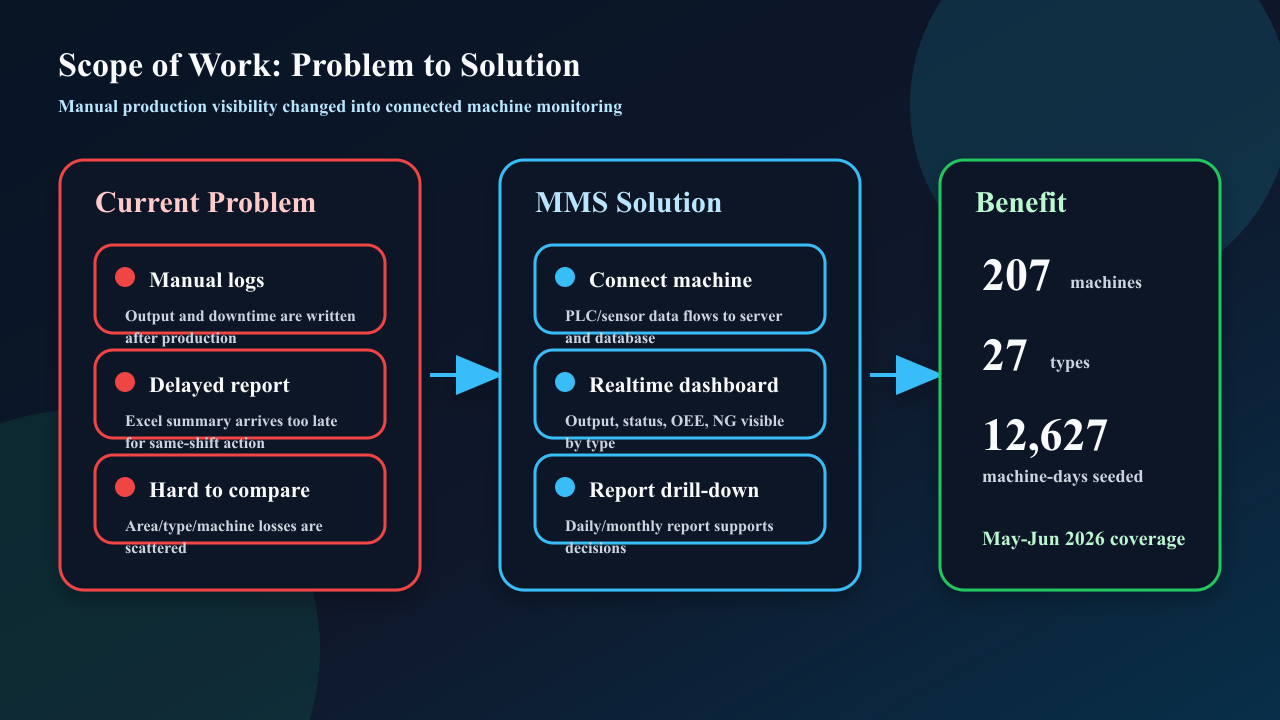
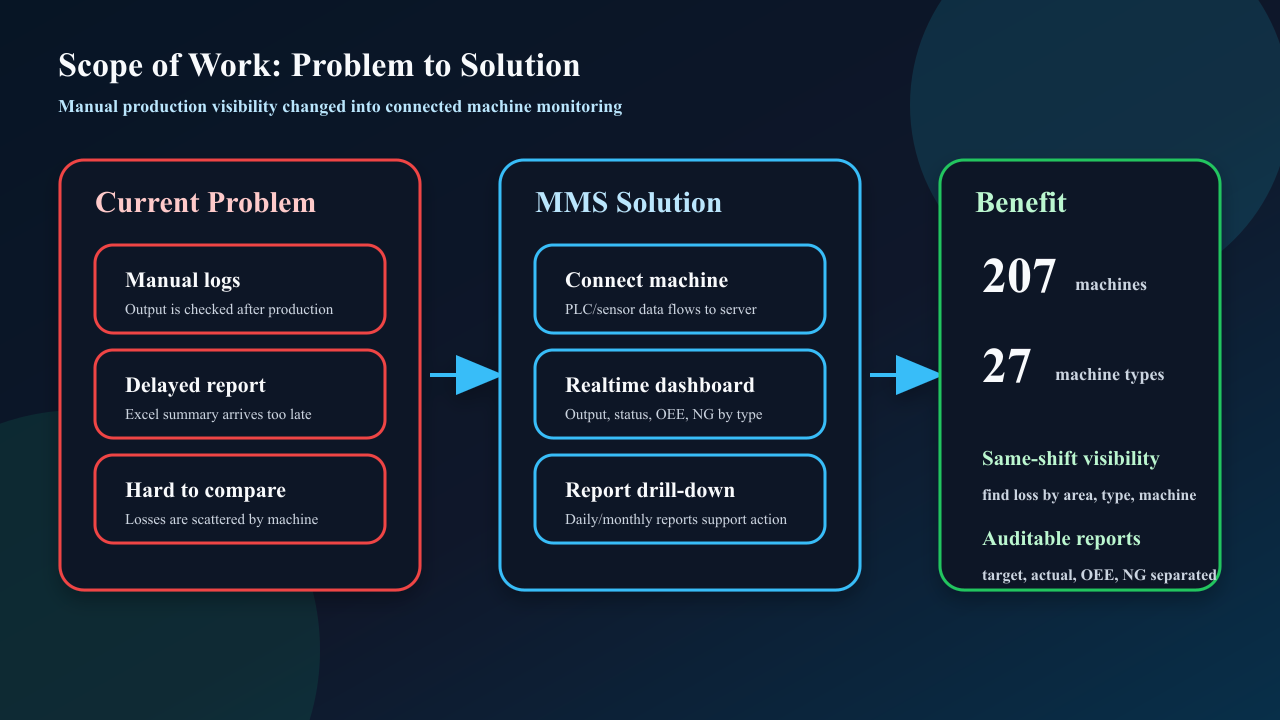
feat: use real mms web screenshots

diff --git a/lib/data.ts b/lib/data.ts
@@ -758,8 +758,8 @@ export const projects: Project[] = [
           metrics: [
             { label: "Active machines", value: "207" },
             { label: "Machine types", value: "27" },
-            { label: "Demo coverage", value: "61", unit: "days" },
-            { label: "Machine-days seeded", value: "12,627" },
+            { label: "Main report pages", value: "6" },
+            { label: "Deployment mode", value: "PM2" },
           ],
           userFlow: [
             { id: "open", label: "Open Dashboard", detail: "Supervisor opens realtime MMS dashboard", type: "action" },
@@ -772,13 +772,13 @@ export const projects: Project[] = [
             { url: "/projects/mms-dashboard/scope-problem-solution.png", title: "Current Problem, Solution, and Benefit", caption: "Shows the current manual-reporting problem, the MMS machine-data solution, and measurable coverage numbers used for portfolio validation." },
             { url: "/projects/mms-dashboard/web-user-flow.png", title: "User Flow of MMS Web", caption: "Explains how a supervisor uses the web app: open dashboard, filter machines, compare KPIs, drill into reports, and take action." },
             { url: "/projects/mms-dashboard/network-flow.png", title: "Machine Network to Database", caption: "Machine-side data flows from PLC/sensor and edge gateway into MQTT/Influx, then to Express API and SQL Server for realtime dashboards." },
-            { url: "/projects/mms-dashboard/Daily.png", title: "Daily Report Page", caption: "A real program screen for daily review of target, actual output, OEE, downtime, and alarm information." },
-            { url: "/projects/mms-dashboard/Monthly.png", title: "Monthly Report Page", caption: "A real program screen for comparing production and OEE trend over a longer period." },
+            { url: "/projects/mms-dashboard/web-layout-dashboard.png", title: "Realtime Layout Dashboard", caption: "Actual web screenshot captured from the running MMS system. This page shows factory areas and machine status color groups so users can see where losses happen." },
+            { url: "/projects/mms-dashboard/web-daily-report.png", title: "Daily Report Page", caption: "Actual web screenshot captured from the running MMS system. This page helps supervisors compare downtime, alarms, target, actual output, and cycle time in one day." },
           ],
           benefits: [
             "Supervisors can see production loss by area, type, machine, and date instead of waiting for manual spreadsheet consolidation.",
             "Machine data is separated into target, actual, runtime, OEE, NG, status, and alarm tables so report numbers are easier to audit.",
-            "Seeded demo data covers every active machine and type from May 2026 through June 2026 for realistic portfolio testing.",
+            "The web flow reduces manual follow-up because users can move from realtime status to report drill-down in the same interface.",
           ],
         },
         jobProcess: {
@@ -806,8 +806,15 @@ export const projects: Project[] = [
             { url: "/projects/mms-dashboard/issue-solution.png", title: "Problems and Fix Approach", caption: "Summarizes key engineering problems around data mismatch and report performance, plus the solution used." },
           ],
           screenshots: [
-            { url: "/projects/mms-dashboard/Daily.png", title: "Daily Dashboard", caption: "Used by supervisors to compare daily target, output, OEE, downtime, and abnormal machine behavior." },
-            { url: "/projects/mms-dashboard/Monthly.png", title: "Monthly Dashboard", caption: "Used by management to compare production trend and check before/after improvement results." },
+            { url: "/projects/mms-dashboard/web-home.png", title: "Home / OEE Dashboard", caption: "Actual web screenshot from MMS. This is the entry page for production monitoring, giving users access to OEE dashboard and production modules." },
+            { url: "/projects/mms-dashboard/web-layout-dashboard.png", title: "Layout Dashboard", caption: "Actual web screenshot from MMS. It maps machine areas and status modes so users can visually locate running, downtime, plan stop, and no-data zones." },
+            { url: "/projects/mms-dashboard/web-daily-report.png", title: "Daily Report", caption: "Actual web screenshot from MMS. It explains daily performance through downtime bars, alarm pie chart, output vs target, and cycle-time comparison." },
+            { url: "/projects/mms-dashboard/web-monthly-report.png", title: "Monthly Report", caption: "Actual web screenshot from MMS. It summarizes trend by month so management can compare production output and OEE after improvement actions." },
+            { url: "/projects/mms-dashboard/web-machine-report.png", title: "Machine Output Report", caption: "Actual web screenshot from MMS. It shows machine-by-machine monthly rows for target, output, availability, performance, quality, OEE, and export-to-Excel review." },
+            { url: "/projects/mms-dashboard/web-machine-ng.png", title: "Machine NG Report", caption: "Actual web screenshot from MMS. It helps production and quality teams trace NG quantity by machine, model, date, and station/process source." },
+            { url: "/projects/mms-dashboard/web-production-planning.png", title: "Production Planning", caption: "Actual web screenshot from MMS. Users configure targets, machine plans, model settings, cycle time, efficiency target, and working hours before comparing actual production." },
+            { url: "/projects/mms-dashboard/web-update-oee.png", title: "Update OEE", caption: "Actual web screenshot from MMS. This page supports manual review/update of OEE-related data such as NG mode, manual NG, and calculated quality/OEE values." },
+            { url: "/projects/mms-dashboard/web-machine-working.png", title: "Machine Working", caption: "Actual web screenshot from MMS. It tracks operator or machine working history so production activity can be checked alongside machine performance." },
           ],
           challenges: [
             { issue: "Machine data can come from multiple sources and update at different times, which can create mismatched report numbers.", solution: "Separated source-of-truth tables by target, actual, runtime, OEE, NG, status, and alarm, then documented which table each report should trust." },
@@ -820,8 +827,8 @@ export const projects: Project[] = [
         { url: "/projects/mms-dashboard/program-flow.png", title: "Program Working Flow", caption: "Users filter by area, type, or machine; the API loads target, actual, OEE, and downtime data; the dashboard renders realtime views and report drill-downs for production action." },
         { url: "/projects/mms-dashboard/before-after.png", title: "Before vs After Workflow", caption: "The project changes the working method from manual logs and delayed spreadsheets to realtime machine data, dashboard monitoring, and faster same-shift decisions." },
         { url: "/projects/mms-dashboard/devops-flow.png", title: "CI/CD and PM2 Deployment Flow", caption: "Development follows Git workflow, CI runs backend unit tests and frontend build, then the release is deployed to an on-premise customer server with PM2." },
-        { url: "/projects/mms-dashboard/Daily.png", title: "Daily Dashboard Report", caption: "Daily view compares output target, actual output, OEE, downtime, and alarm patterns so supervisors can review production losses by day." },
-        { url: "/projects/mms-dashboard/Monthly.png", title: "Monthly Dashboard Report", caption: "Monthly view summarizes production and OEE trend over time, making before/after improvement comparison easier for management." },
+        { url: "/projects/mms-dashboard/web-daily-report.png", title: "Daily Dashboard Report", caption: "Actual web screenshot captured from MMS. Daily view compares output target, actual output, OEE, downtime, and alarm patterns so supervisors can review production losses by day." },
+        { url: "/projects/mms-dashboard/web-monthly-report.png", title: "Monthly Dashboard Report", caption: "Actual web screenshot captured from MMS. Monthly view summarizes production and OEE trend over time, making before/after improvement comparison easier for management." },
       ],
       features: [
         "Realtime machine status monitoring with Socket.IO updates",
@@ -835,7 +842,7 @@ export const projects: Project[] = [
       metrics: [
         { label: "Active machines in DB", value: "207" },
         { label: "Machine types", value: "27" },
-        { label: "Seeded machine-days", value: "12,627" },
+        { label: "Main report pages", value: "6" },
         { label: "Demo date range", value: "May-Jun", unit: "2026" },
         { label: "Core report tables covered", value: "7" },
         { label: "Deployment mode", value: "PM2" },
@@ -845,8 +852,8 @@ export const projects: Project[] = [
         { url: "/projects/mms-dashboard/program-flow.png", caption: "Dashboard working flow from filter to action", type: "graph" },
         { url: "/projects/mms-dashboard/before-after.png", caption: "Before and after production reporting workflow", type: "graph" },
         { url: "/projects/mms-dashboard/devops-flow.png", caption: "Git, CI, CD, and PM2 deployment workflow", type: "graph" },
-        { url: "/projects/mms-dashboard/Daily.png", caption: "Real daily dashboard screenshot", type: "image" },
-        { url: "/projects/mms-dashboard/Monthly.png", caption: "Real monthly dashboard screenshot", type: "image" },
+        { url: "/projects/mms-dashboard/web-daily-report.png", caption: "Actual daily dashboard screenshot captured from the running web app", type: "image" },
+        { url: "/projects/mms-dashboard/web-monthly-report.png", caption: "Actual monthly dashboard screenshot captured from the running web app", type: "image" },
       ],
       technicalHighlights: [
         { title: "Networked Machine Data Pipeline", description: "Machine-side output, status, cycle time, and alarm data are collected through MQTT/Influx paths and normalized into SQL Server reporting tables." },
@@ -856,7 +863,7 @@ export const projects: Project[] = [
       ],
       results: [
         "Created a visual portfolio-ready explanation with network flow, program flow, before/after workflow, DevOps flow, and real dashboard screenshots.",
-        "Seeded SQL Server demo data for 207 active machines and 27 machine types across 2026-05-01 to 2026-06-30.",
+        "Captured actual MMS web pages and used them to explain what each screen does in the portfolio.",
         "Added downloadable PRD, System Architecture, User Manual, Git/DevOps workflow, and data source documentation.",
         "Added CI workflow for backend unit tests and frontend build verification before deployment.",
       ],
